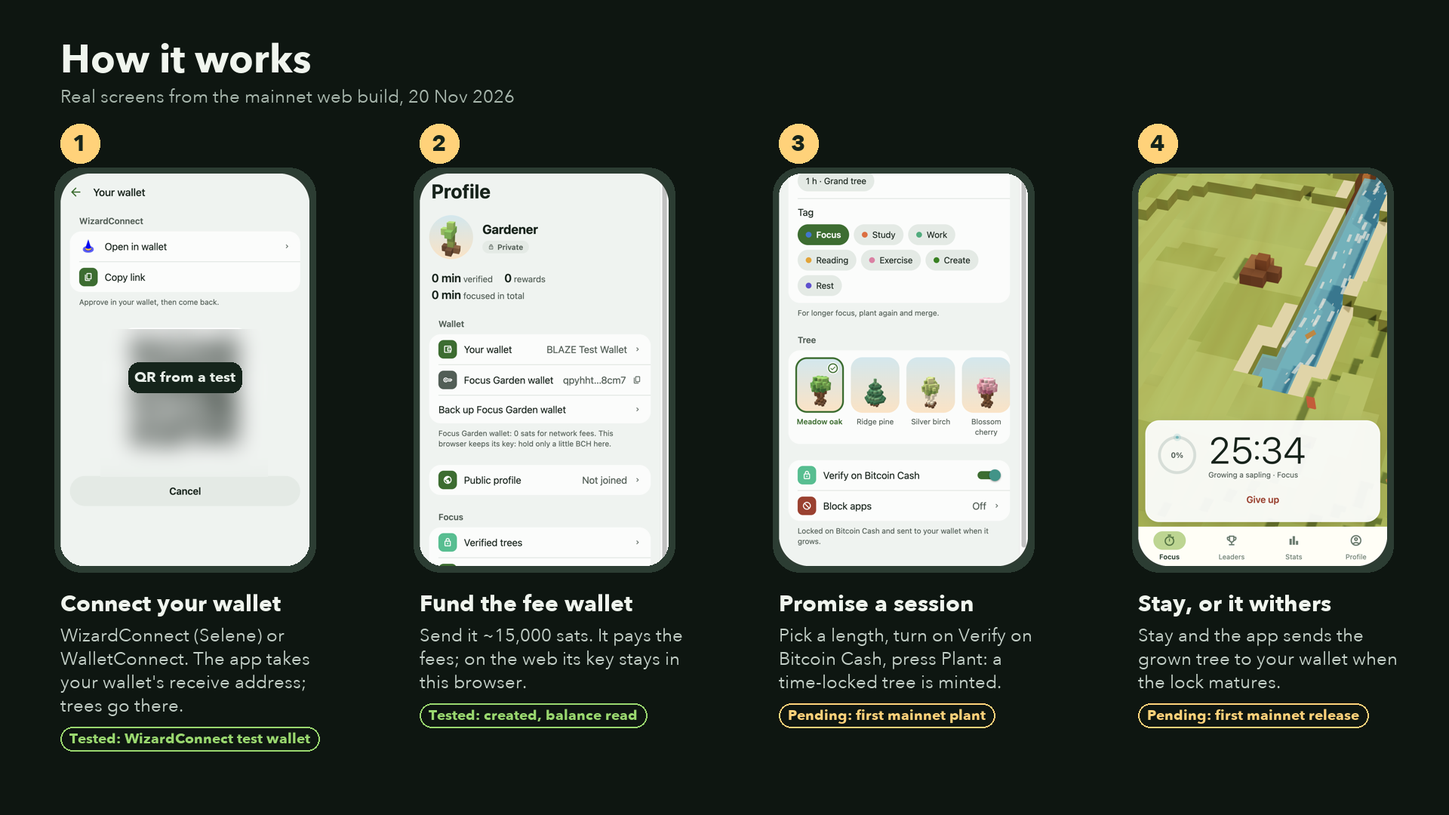
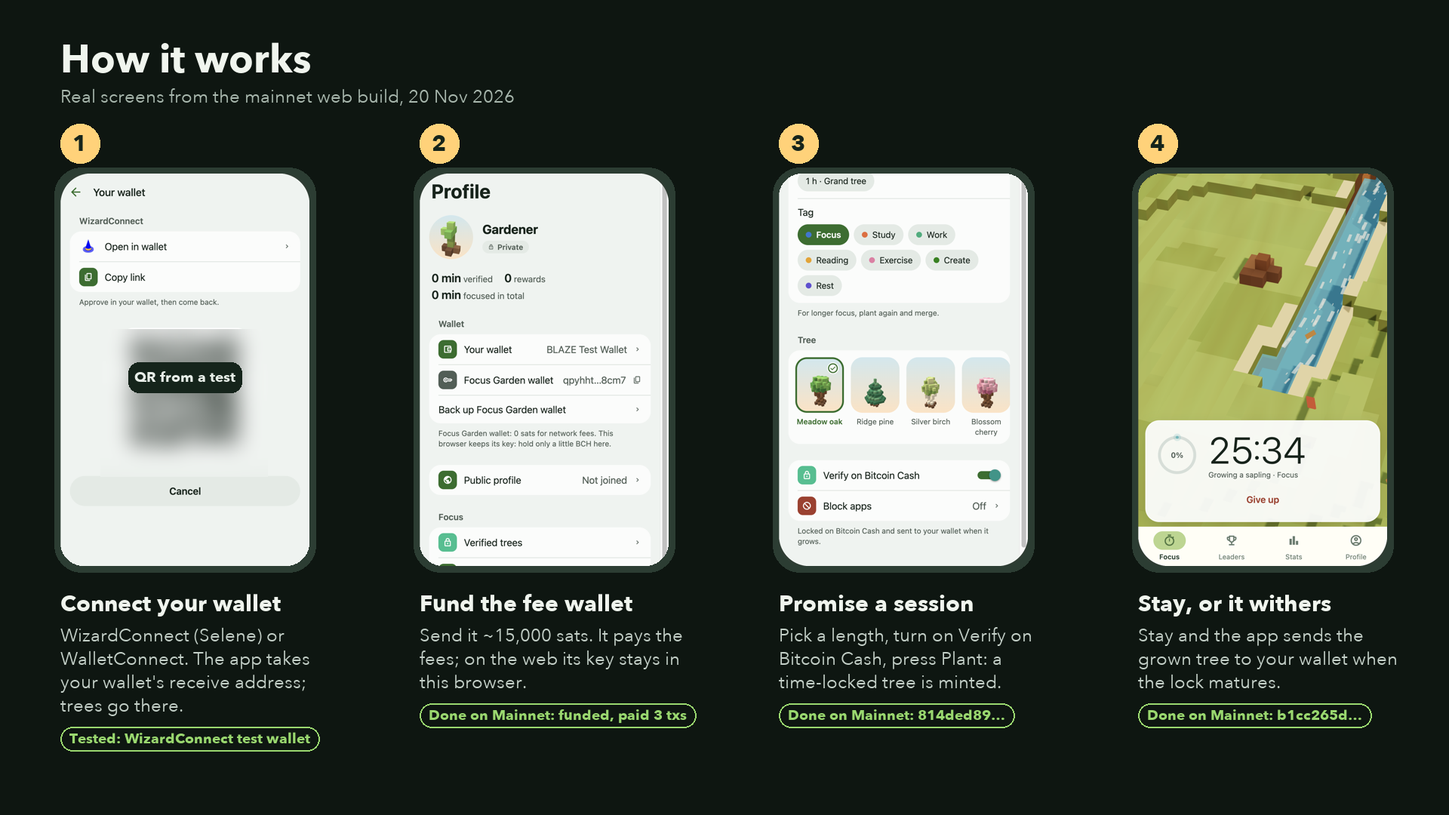
docs/blaze: mainnet judge-path run done (plant, release, profile card)
Plant 814ded89 (block 978132), release b1cc265d (block 978179) and profile card
bc279c21 were made from the live website on 20 Nov with a dedicated test wallet.
Evidence, eligibility, links, BUIDL draft, demo and review notes now cite them;
the walkthrough chips say Done on Mainnet. Source links are pinned to 5f5a52e
(main after PR #4 and #5).

Changed region(s): [[0.2812, 0.8556, 0.4688, 0.8861], [0.7812, 0.8556, 0.9375, 0.8861], [0.5312, 0.8556, 0.6875, 0.8861]]

diff --git a/docs/blaze/BUIDL-DRAFT.md b/docs/blaze/BUIDL-DRAFT.md
@@ -13,7 +13,7 @@ immediately. Saving is treated as the final-submit approval point. Nothing below
 | Name of your Build | Focus Garden | Focus Garden |
 | Brief description | Stay focused. Grow a forest. | Keep your word, grow your forest: focus promises locked on Bitcoin Cash. |
 | Tags | Crypto / Web3, Bitcoin Cash | Crypto / Web3, Bitcoin Cash (add: Productivity, NFT, if offered) |
-| Link 1 (GitHub Repo) | github.com/salemkode/crypto-focus-garden/tree/release/blaze-web-preview | `https://github.com/salemkode/focus-garden-next/tree/<submission commit>` |
+| Link 1 (GitHub Repo) | github.com/salemkode/crypto-focus-garden/tree/release/blaze-web-preview | `https://github.com/salemkode/focus-garden-next/tree/5f5a52ea3c83d9b6df178d53d7eab5c26a32ab56` |
 | Link 2 (Website) | focusgarden.salemkode.com/blaze/ | https://focus-app.salemkode.com |
 | Link 3 (Website) | — | https://focus.salemkode.com/#blaze (judge guide) |
 | Link 4 (Video) | — | `<video link, if recorded>` |
@@ -25,7 +25,7 @@ immediately. Saving is treated as the final-submit approval point. Nothing below
 
 ## Details text, ready to paste
 
-Replace the `<…>` placeholders before pasting.
+All placeholders are filled (20 Nov).
 
 ```
 🔥 BCH BLAZE 2026 · Mainnet track
@@ -33,7 +33,7 @@ Replace the `<…>` placeholders before pasting.
 Try it: https://focus-app.salemkode.com (Bitcoin Cash mainnet, web app in a phone frame; needs a BCH wallet and about 15,000 sats)
 Judge guide (5 minutes): https://focus.salemkode.com/#blaze
 Slides: https://focus.salemkode.com/blaze/focus-garden-blaze-2026.pdf
-Source (2026): https://github.com/salemkode/focus-garden-next/tree/<submission commit>
+Source (2026): https://github.com/salemkode/focus-garden-next/tree/5f5a52ea3c83d9b6df178d53d7eab5c26a32ab56
 EMBER2026 votes: bitcoincash:zzxajy7s8h5qk0tajmr2rmus40ypcs9csvu8j9wgrd
 
 Focus Garden turns a focus session into a promise on Bitcoin Cash. Press Plant and the FocusForest contract mints a tree NFT and time-locks it for the session. The app tracks whether you stay: leave for more than 10 seconds and the tree withers and skips automatic delivery. Stay, and when the lock matures the grown tree is sent to your own wallet as a CashTokens NFT. Longer sessions grow bigger trees, small trees merge into bigger ones, and a second contract, FocusDirectory, gives everyone a public profile card for the on-chain leaderboard and tips. There is no backend of our own: the app builds, checks (in the BCH 2026 VM) and signs every transaction itself and talks to public Electrum servers.
@@ -47,12 +47,12 @@ How to try it (about 15,000 sats):
 
 Why Bitcoin Cash: native CashTokens make each tree a real NFT, covenant time locks (BIP68) make every node enforce the session, and fees are small enough for one tree per session.
 
-Status: both contracts are live on mainnet since 19 Nov 2026 (block 977999), with 100 creator trees and BCMR metadata. The app reads gardens and the leaderboard from mainnet, and WizardConnect pairing is verified on the mainnet build. Plant, merge, claim, profile and tip transactions pass the 76-test contracts suite and 27 protocol tests in the BCH VM. <Add the judge-path mainnet txid here once it is made.> Planned: pUSD-backed promises and group gardens.
+Status: both contracts are live on mainnet since 19 Nov 2026 (block 977999), with 100 creator trees and BCMR metadata. The app reads gardens and the leaderboard from mainnet, and WizardConnect pairing is verified on the mainnet build. Plant, merge, claim, profile and tip transactions pass the 76-test contracts suite and 27 protocol tests in the BCH VM. Made from the website on mainnet, 20 Nov 2026: a plant (814ded899f98264f7fdb58c4ada15b48eb45588414ebc3bc106e828143abd9db), the release of the grown tree to the linked wallet (b1cc265d64ef49728fc5b65e638025a871430b27499c6ccd3367f3bbf866332a) and a profile card (bc279c21a41bf4e8b4170419a3c0c71e7f4a6003f244eb04b504c48240c153f8). Planned: pUSD-backed promises and group gardens.
 
 Pre-existing work: this upgrades our BCH BLAZE 2025 entry, Crypto Focus Garden (3rd place, BitcoinCash Innovation Award): a Next.js web dApp with one Chipnet contract.
 2025 entry: https://dorahacks.io/buidl/36811
 2025 source: https://github.com/salemkode/crypto-focus-garden/tree/de708cd
 2025 demo (organizer showcase): https://www.youtube.com/watch?v=R2xhv0Vq_Us&t=4664s
 Before the 14 Nov kickoff we also had a private Expo prototype (9–10 Nov 2026, reusing the 2025 Chipnet contract) and started the React Native Libauth adapter (13 Nov 2026, https://github.com/salemkode/react-native-libauth). Everything else was built during BLAZE (17–20 Nov 2026 commits): the FocusForest and FocusDirectory contracts and their mainnet deployment, the Expo app for iPhone, Android and the web, on-device transaction building, WizardConnect and WalletConnect linking, the leaderboard, profiles and tips, and BCMR metadata.
-Everything since 2025: https://github.com/salemkode/focus-garden-next/compare/de708cd...<submission commit>
+Everything since 2025: https://github.com/salemkode/focus-garden-next/compare/de708cd...5f5a52e
 ```

diff --git a/docs/blaze/ELIGIBILITY.md b/docs/blaze/ELIGIBILITY.md
@@ -14,7 +14,7 @@ runs 23–27 November, and results are announced on 28 November.
 
 | Track | Verdict | One-line reason |
 |---|---|---|
-| **Mainnet** | **Reachable before the deadline.** Recommended. | The branch is deployed and most requirements are met. Still needed: one funded mainnet run that proves the judge journey, and the BUIDL moved to the Mainnet track. |
+| **Mainnet** | **Eligible.** Recommended. | All requirements the repository can show are met, including a plant → release and a profile card made from the website on mainnet (20 Nov). Still needed: the BUIDL moved to the Mainnet track. |
 | Media | Eligible as an entry type, but not recommended | It would need its own media piece. The existing BUIDL is on the Media track, and its content is out of date. |
 | Community Choice | Eligible automatically once the Mainnet entry is valid | The voting address was confirmed on 20 Nov |
 | Build with XO | Not realistic | No new XO template or invitation exists, and the feedback must be personally written |
@@ -28,8 +28,8 @@ reliable, not adding features. Skip the XO bounties this round.
 
 | Requirement (official wording, shortened) | Status | Evidence / what is left |
 |---|---|---|
-| A feature that sends BCH **mainnet** transactions that anyone, judges included, can make with the app | **Code ready; needs deploy and one funded proof run** | The web app could not send any transaction before today. The browser build refused to store keys, so the fee wallet could not be created. Branch `docs/blaze-2026-submission` (commit `560acb6`) adds a browser fee wallet. On the mainnet web build, wallet creation and the mainnet balance read are verified. A plant with an empty wallet stops cleanly at "needs one coin of at least 8,000 sats". The planting, profile, tip and claim transactions pass the contract and protocol tests in the BCH 2026 VM (tested locally). **No app-made transaction exists on mainnet yet.** The FocusForest contract's history shows only its genesis. |
-| A live, usable website demo judges can click | **Live** | https://focus-app.salemkode.com has run the mainnet build of this branch since 20 Nov: fee wallet, banner, connection-only linking. Earlier the same day it ran `main`, without these. |
[1 lines of base64/hex data omitted]
+| A live, usable website demo judges can click | **Live** | https://focus-app.salemkode.com runs `main` at `5f5a52e` (PR #5 merged 20 Nov): fee wallet, banner, connection-only linking, working confirm dialogs. |
 | Original or significantly improved during the hackathon | **Yes** | The 2025 dApp (one Chipnet contract with a relaxed time check) became a three-platform Expo app with two new mainnet contracts, merging, a leaderboard and BCMR. See `SUBMISSION.md` → "What was built during BLAZE". |
 | Top-of-page banner on the home page: deck link, GitHub source, EMBER2026 CashTokens address. Pre-existing projects also need old and new repo links and a "before" demo link. | **Met (live 20 Nov)** | `packages/mobile/blaze-banner.json` feeds the web app (above the phone frame on desktop and above the app on phones; it can collapse to one line) and the landing page. It holds the deck PDF link (focus.salemkode.com/blaze/…pdf), the 2026 source, the 2025 source, demo and entry, and the confirmed EMBER2026 address. The "before" demo is the organizers' 2025 showcase video. The 2025 dApp is no longer hosted. |
 | **WizardConnect or XO Template integration** | **Met (WizardConnect)** | `packages/mobile/src/features/wallet-link/wizardconnect.ts` uses `@wizardconnect/dapp` 0.2.7. On 20 Nov, on the mainnet web build, a dedicated test wallet built on `@wizardconnect/wallet` 0.2.5 completed the relay pairing. The app received the receive key and linked the address ("Linked to Focus Garden."). Selene is the wallet the UI recommends. The native fee wallet uses the XO engine with XO's stock `p2pkh` template. That is an XO *library* integration, not a custom XO Template, so it is not claimed as one. |

diff --git a/docs/blaze/DECK.md b/docs/blaze/DECK.md
@@ -1,8 +1,9 @@
-# Focus Garden — Widget Factory deck (BCH BLAZE 2026), v2
+# Focus Garden — Widget Factory deck (BCH BLAZE 2026), v3
 
 Deck: https://docs.google.com/presentation/d/16sSdxHkranTg2wpwybkcenF869Gxal0JiMUsRLNKylk/edit
 (a copy of the mandatory template; never edit the original). v1 was built on 20 Nov. v2 applies the
-lead, Sol, Astra and Fable reviews (`reviews/`, summary in `REVIEW.md`).
+lead, Sol, Astra and Fable reviews (`reviews/`, summary in `REVIEW.md`). v3 (20 Nov) replaces
+every "Pending" about the judge path with the mainnet txids; renders in `deck-renders/v3/`.
 
 Template order (kept): cover → one-sentence pitch with link → story → benefits → BCH usage →
 vision → thank you. The walkthrough, evidence and before/after slides sit where the story needs
@@ -50,7 +51,7 @@ Aim for one idea per slide and big type: judges give each entry about two minute
 - **A focus timer with stakes: while you focus, Bitcoin Cash time-locks a tree; stay, and the app
   delivers it to your wallet as a CashTokens NFT. Leave, and it withers.**
 - Large link right below: **Try it → focus-app.salemkode.com** (any modern browser plus a BCH wallet; about 15,000 sats)
-- Status next to the link, not at the bottom: `[Contracts live on Mainnet · first app plant: Pending]`
+- Status next to the link, not at the bottom: `[Done on Mainnet: contracts, and a plant → release from the website]` (v3)
 - Notes: The website is the app's web build in a phone frame. The judge guide is at focus.salemkode.com/#blaze.
 
 ## 3 — Story
@@ -69,8 +70,8 @@ Title: The Story of Focus Garden
 ## 4 — How it works (walkthrough)
 
 - Full-bleed `walkthrough.png` v2: four steps with honest chips (1 Tested: WizardConnect test
-  wallet · 2 Tested: created, balance read · 3 Pending: first mainnet plant · 4 Pending: first
-  mainnet release). The QR code is blurred.
+  wallet · 2 Done on Mainnet: funded, paid 3 txs · 3 Done on Mainnet: 814ded89… · 4 Done on
+  Mainnet: b1cc265d…; v3, 20 Nov). The QR code is blurred.
 - Notes: 1 Connect: WizardConnect shares a receive key branch, and the app uses the first receive
   address; it never asks the wallet to sign. 2 Fund the fee wallet with one coin of ≥8,000 sats
   (≈15,000 covers a plant and a release). 3 Plant with Verify on: the app builds the FocusForest
@@ -82,7 +83,7 @@ Title: The Story of Focus Garden
 
 Title: Benefits of Focus Garden
 - **A reason to stay.** Leave for 10 seconds and your tree withers. `[Tested locally]`
-- **A reward you own.** Kept sessions become CashTokens NFTs in your own wallet, with pictures from our BCMR registry. `[Contracts and metadata: Done on Mainnet · first delivery: Pending]`
+- **A reward you own.** Kept sessions become CashTokens NFTs in your own wallet, with pictures from our BCMR registry. `[Done on Mainnet: contracts, metadata, first delivery]` (v3)
 - **No account, no server we run.** The app talks to Bitcoin Cash through public Electrum servers. `[Done on Mainnet (read-only)]`
 - Notes (moved off the slide): app blocking (Screen Time / usage access) in the native apps, not
   re-verified for this entry; profile cards, a leaderboard of pledged focus, and tips.
@@ -112,7 +113,8 @@ Title: Evidence and honest limits
 | Contracts, 100 creator trees, BCMR metadata | Done on Mainnet — block 977999 |
 | App reads gardens, balances and leaderboard from mainnet | Done on Mainnet (read-only) |
 | WizardConnect pairing | Tested with a dedicated test wallet, 20 Nov |
-| Plant → release from the website | Pending — first mainnet run |
+| Plant → release from the website | Done on Mainnet — 814ded89…d9db → b1cc265d…332a (v3) |
+| Profile card from the website | Done on Mainnet — bc279c21…53f8 (v3) |
 
 - Visible box: **Limits:** the chain checks time, not attention; the app checks that you stay.
   The leaderboard counts pledged time. Delivery waits for the lock to mature (up to about an hour
@@ -131,7 +133,7 @@ Title: The Vision for Focus Garden
 
 Same table as v1, with these changes:
 - Labelled links, no raw URLs: "2025 source", "2025 demo (organizer showcase)", "2026 source".
-- Network row, 2026 column: "Mainnet: contract deployment and reads; first web plant pending".
+- Network row, 2026 column: "Mainnet: contract deployment and reads; plants, releases and profile cards from the website" (v3).
 - Wallets row, 2026 column: "WizardConnect, WalletConnect; XO-engine fee wallet (native)".
 
 ## 10 — Thank you
@@ -144,8 +146,8 @@ Same table as v1, with these changes:
 ## A1 — Mainnet transactions
 
 Short txids (first 8 … last 4), each linked to `https://blockchair.com/bitcoin-cash/transaction/<txid>`.
-Heading: "Deployment (operator) — Done on Mainnet". An empty second heading,
-"Judge path (app) — Pending", gets the plant and release txids later.
+Heading: "Deployment (operator) — Done on Mainnet". Second heading (v3):
+"Judge path (app) — Done on Mainnet, 20 Nov": Plant 814ded89…d9db · Release b1cc265d…332a · Profile card bc279c21…53f8.
 
 ## A2 — Architecture
 

diff --git a/docs/blaze/SUBMISSION.md b/docs/blaze/SUBMISSION.md
@@ -21,7 +21,7 @@ read straight from the chain.
 
 > **🔥 BCH BLAZE 2026 · Mainnet track**
 > Try it: **https://focus-app.salemkode.com** (web, with a five-minute judge guide at https://focus.salemkode.com/#blaze)
-> Slides: https://focus.salemkode.com/blaze/focus-garden-blaze-2026.pdf · Source: https://github.com/salemkode/focus-garden-next (branch `docs/blaze-2026-submission`)
+> Slides: https://focus.salemkode.com/blaze/focus-garden-blaze-2026.pdf · Source: https://github.com/salemkode/focus-garden-next (submitted code: commit `5f5a52e`)
 > EMBER2026 votes: `bitcoincash:zzxajy7s8h5qk0tajmr2rmus40ypcs9csvu8j9wgrd`
 
 **The problem.** Phones win the fight for attention. Focus timers lose because breaking one costs nothing
@@ -52,10 +52,10 @@ small enough to plant one tree per session.
 **Status, honestly.**
 
 - **Done on Mainnet:** both contracts deployed on 19 Nov 2026 (block 977999), 100 creator trees and BCMR metadata.
+- **Done on Mainnet, from the website (20 Nov 2026):** a 9-minute plant (`814ded89…d9db`, block 978132), its release to the linked wallet (`b1cc265d…332a`, block 978179) and a profile card (`bc279c21…53f8`). Full txids are in the evidence table.
 - **Done on Mainnet, read-only:** the web app reads balances, gardens and the leaderboard from mainnet.
-- **Tested on the mainnet web build:** WizardConnect pairing.
+- **Tested on the mainnet web build:** WizardConnect pairing (and the tree above went to that WizardConnect-linked wallet).
 - **Tested locally:** the plant, merge, claim, profile and tip transactions (the contracts suite of 76 tests, which also covers the earlier PomodoroRewards and CreditPolicy contracts, plus 27 protocol tests).
-- **Pending:** a funded judge-path run on mainnet, before the deadline. Its txids will be added here.
 - **Planned:** pUSD-backed promises and group gardens.
 
 **Built on our 2025 entry.** See "Pre-existing work" below for the links and the full timeline.
@@ -92,7 +92,9 @@ All of the 2026 commits in `salemkode/focus-garden-next` after `de708cd` (17–2
 | 7 | Contract rules (tier minimums, time locks, merge, claim authorization, profile cards) | Local VM | 76 tests (`bun run test:contracts`), run 20 Nov | `bun run check` |
 | 8 | On-device building, policy checks, garden reader, leaderboard | Local | 27 protocol tests + 71 app tests, run 20 Nov on the submission branch | `bun run check` |
 | 9 | WizardConnect linking works on the mainnet web build | Mainnet relay (no transaction) | 20 Nov: a dedicated test wallet paired over `relay.riften.net` / `relay.cauldron.quest`; the app linked `bitcoincash:zp0ldgxx7k4j8xh98j588levmlqf5rfmg5v49vs0ws` | Repeat with Selene: Connect wallet → Selene |
-| 10 | The browser fee wallet is created and reads its mainnet balance | Mainnet (read) | 20 Nov, local build of this branch | Profile → Focus Garden wallet |
[1 lines of base64/hex data omitted]
 | 11a | A withered session forfeits its automatic release | Local | `tests/auto-release.test.ts` (one of the 71 app tests) | `bun run test:mobile` |
 | 11 | A plant with an empty fee wallet refuses before signing | Mainnet build | "Your Focus Garden wallet needs one coin of at least 8,000 sats" | Plant with Verify on and no funds |
-| 12 | **A judge-path plant, profile or tip made from the app** | **Mainnet** | **pending** (needs ~15,000 sats; owner approval) | Explorer, plus the tree arriving in the linked wallet |
[3 lines of base64/hex data omitted]

diff --git a/docs/blaze/TODO-BEFORE-SUBMIT.md b/docs/blaze/TODO-BEFORE-SUBMIT.md
@@ -10,18 +10,15 @@ Legend: 🧑 only you can do or decide this · 🤖 I do it once you say yes · 
 
 1. ✅ **EMBER2026 voting address confirmed** (20 Nov): `bitcoincash:zzxajy7s8h5qk0tajmr2rmus40ypcs9csvu8j9wgrd`, shared with Venn. It is in the banner, the deck and the BUIDL draft.
 
-2. 🧑 **Approve and fund one judge-path run on mainnet.** This is the core Mainnet-track proof. No
-   app-made transaction exists on mainnet yet (the FocusForest contract has only its genesis). My
-   rules exclude your existing wallets and funds, so a funding source has to come from you. Two options:
-   - **(a) You run it** (about 15 minutes of attention plus waiting). Follow `DEMO.md` → "Judge
-     instructions" on https://focus-app.salemkode.com with your own wallet and about 15,000 sats, then
-     send me the txids.
-   - **(b) I run it.** Send about 20,000 sats to a dedicated browser fee wallet I create for this. I
-     mint a profile card, plant a 9-minute verified tree, wait for the release (about 1–1.5 h) and
-     record every txid.
-
-   🤖 Either way, I then update the evidence (`SUBMISSION.md` #12), the deck chips ("mainnet
-   pending" → "Done on Mainnet") and the BUIDL text.
+2. ✅ **Judge-path run on mainnet** (20 Nov), funded by you and run from the live site: plant
+   `814ded89…d9db` (block 978132), release of the grown tree to the linked test wallet
+   `b1cc265d…332a` (block 978179), profile card "BLAZE Demo" `bc279c21…53f8`. Full txids are in
+   `SUBMISSION.md` (#12–#14). The evidence, the deck, its PDF and the BUIDL draft are updated.
+   🧑 **Leftover funds:** you sent 975,039 sats, against about 20,000 needed. After the three
+   transactions, the browser fee wallet `bitcoincash:qqlyrhns0m75u00c2sec326f77gh75k3fgmpj3wacx`
+   holds about 967,000 sats. Its key lives only in the Ardia browser's storage for
+   focus-app.salemkode.com. Tell me where to send it back. I'll sweep it with a single transaction
+   to the address you name.
 
 3. ✅ **Deck link** (20 Nov): as you asked, the Google deck stays private. Its PDF export is hosted on your Cloudflare site at https://focus.salemkode.com/blaze/focus-garden-blaze-2026.pdf and linked from both banners. If the deck changes, ask Codex to export it again, then redeploy the landing page.
 
@@ -46,11 +43,9 @@ Legend: 🧑 only you can do or decide this · 🤖 I do it once you say yes · 
    nothing can change that now. Posting the project in the group also helps "word of mouth", which
    the rules name as the way out of that queue.
 
-6. 🧑 **Keep the deployed build until judging ends (27 Nov).** focus-app.salemkode.com and
-   focus.salemkode.com now run branch `docs/blaze-2026-submission`. A deploy from `main` drops the
-   fee wallet and banner until PR #5 is merged. Two ways to avoid it:
-   - merge https://github.com/salemkode/focus-garden-next/pull/5 (I won't merge it), or
-   - tell other threads not to redeploy the web app or landing page from `main`.
+6. ✅ **PRs merged and deployed** (20 Nov): PR #4 and PR #5 are merged into `main` (`5f5a52e`),
+   and both sites were redeployed from `main`. Until judging ends (27 Nov), avoid redeploying from
+   an older branch.
 
 7. 🧑 **The old Media "interactive piece"** at focusgarden.salemkode.com/blaze (and its pitch.pdf)
    still says "test network" and "garden service". Option: 🤖 I point it to
@@ -82,7 +77,7 @@ Legend: 🧑 only you can do or decide this · 🤖 I do it once you say yes · 
 
 - Rules re-verified on 20 Nov from DoraHacks and bchblaze.com (`ELIGIBILITY.md`, `sources/`)
 - Web fee wallet; connection-only wallet linking; withered sessions keep their tree locked. All are
-  committed, pushed, deployed, and in PR #5.
+  committed, merged into `main` (PR #5) and deployed.
 - The BLAZE banner is live on the web app and landing page. The deck link appears after step 3.
 - The judge guide is live at https://focus.salemkode.com/#blaze
 - WizardConnect pairing was verified on the mainnet web build with a dedicated test wallet.

diff --git a/docs/blaze/DEMO.md b/docs/blaze/DEMO.md
@@ -11,9 +11,24 @@ Supporting pages:
 - iPhone (AppDrop): https://appdrop.app/d/prvhsh4gyx
 - Android APK (AppDrop): https://appdrop.app/d/njfetdhs4s
 
-> Deploy state: since 20 Nov both sites run branch `docs/blaze-2026-submission` (PR #5): the
-> browser fee wallet, the collapsible banner, connection-only linking, and withered sessions
-> keeping their tree locked. A redeploy from `main` before PR #5 merges would remove these.
+> Deploy state: both sites run `main` at `5f5a52e` (PR #4 and PR #5 merged and deployed on 20 Nov):
+> the browser fee wallet, the collapsible banner, connection-only linking, working confirm dialogs,
+> and withered sessions keeping their tree locked.
+
+## Verified run on mainnet (20 Nov 2026)
+
+These steps were run on the live site with a dedicated test wallet linked over WizardConnect and a
+browser fee wallet:
+
+| Step | Transaction | Result |
+|---|---|---|
[4 lines of base64/hex data omitted]
+
+Lesson from the run: a browser confirm dialog left open pauses the page's scripts, including the
+automatic release. Answer dialogs promptly and keep the tab in front.
 
 ## Judge instructions (short)
 
@@ -54,7 +69,7 @@ What it costs:
 | 0:15 | focus-app.salemkode.com, banner visible | "This is the live web app on BCH mainnet. The banner links our slides, source and the 2025 version we started from." |
 | 0:25 | Connect wallet → Selene / WizardConnect QR | "I connect my wallet with WizardConnect. Focus Garden takes my receive address and never asks the wallet to sign. That's where my trees go." |
 | 0:40 | Profile → Focus Garden wallet, copy address, pay from wallet | "A small Focus Garden wallet pays the fees. I send it a few cents of BCH." |
-| 0:55 | Next session: 9 min, Verify on Bitcoin Cash, Plant | "I promise nine minutes and press Plant. The app builds the transaction, checks it in the BCH virtual machine, signs it and broadcasts it. The FocusForest contract mints my tree and locks it for exactly this session." |
+| 0:55 | Next session: 9 min, Verify on Bitcoin Cash, Plant | "I promise nine minutes and press Plant. The app builds the transaction, checks it in the BCH virtual machine, signs it and broadcasts it. The FocusForest contract mints my tree and locks it for the session." |
 | 1:15 | Timer running; the txid shown on a second device (keep the app tab in front) | "Here's the transaction on mainnet: a tree NFT held by the contract. Nobody can move it early, not even us." |
 | 1:30 | Recorded separately: a practice session (Verify off) left for 10 s → withered | "If I leave, my tree withers. That's the deal." |
 | 1:45 | Valley with grown trees; Leaders tab | "Stay, and the tree grows. Three small trees merge into a bigger one, and the leaderboard is read straight from the chain." |

diff --git a/docs/blaze/REVIEW.md b/docs/blaze/REVIEW.md
@@ -33,7 +33,7 @@ because only GPT models have the Google Drive connector.
 
 | # | Finding (who) | Severity | Action |
 |---|---|---|---|
-| 1 | No app-made mainnet transaction; the judge path is unproven (all) | Blocker | **Owner approval and funds needed** (`TODO-BEFORE-SUBMIT.md` step 2). Labelled **Pending** everywhere. |
+| 1 | No app-made mainnet transaction; the judge path is unproven (all) | Blocker | **Fixed 20 Nov:** plant `814ded89…d9db`, release `b1cc265d…332a` and profile card `bc279c21…53f8` made from the website on mainnet; labels changed to **Done on Mainnet**. |
 | 2 | No deck link in the banner; voting address unconfirmed (all) | Blocker | The banner and deck are ready. **Owner approval** needed to share the deck and confirm the address (steps 1, 3). |
 | 3 | BUIDL on Media with stale text (all) | Blocker | `BUIDL-DRAFT.md` updated. **Owner approval** needed to save and switch the track (step 4). |
 | 4 | The pitch overstates what the chain proves: "exactly", "unforgeable proof", "garden shows the focus she kept" (Sol, Astra, Fable) | Major | Rewritten as "the app tracks whether you stay, Bitcoin Cash time-locks the tree, finish and the app delivers it" in deck v2, the BUIDL draft, the submission text and the landing page. "Proof" and "no servers" were removed from the landing page. |
@@ -48,7 +48,7 @@ because only GPT models have the Google Drive connector.
 | 13 | WizardConnect was tested only with a test wallet, not real Selene or Paytaca (Fable, Sol) | Major | Wording made exact everywhere. Real Selene and Paytaca are part of the funded run (owner). |
 | 14 | Pre-kickoff work (9–10 Nov prototype, 13 Nov adapter) belongs on a slide (Astra) | Major | Deck v2 A3 and `SUBMISSION.md`. **Open:** Fable asks when the PomodoroRewards "v3" and CreditPolicy were written. Git can't tell, because all 2026 code first landed on 17 Nov. **The owner should confirm.** |
 | 15 | One minting baton serializes every plant (Fable) | Major | Not changed. Listed as a known limit; the plan is several batons. Deck v2 dropped the "million promises" target. |
-| 16 | The live sites run unmerged PR #5 (Fable, Sol) | Major | **Owner decision:** merge PR #5, or freeze deploys from `main` (step 6). |
+| 16 | The live sites run unmerged PR #5 (Fable, Sol) | Major | **Fixed 20 Nov:** PR #5 (and #4) merged; both sites deployed from `main`. |
 | 17 | The vision is too broad (Sol, Astra) | Minor | Deck v2: one first buyer (study groups) and one success measure, marked Planned. |
 | 18 | Test counts were inconsistent; the 76-test suite includes legacy contracts (Sol, Fable) | Minor | Fixed to "76-test contracts suite (also covers PomodoroRewards/CreditPolicy), 27 protocol, 71 app". |
 | 19 | The collapsed banner omits the 2025 demo; the landing page's 2025 link isn't pinned (Fable) | Minor | Both fixed and deployed. |

diff --git a/docs/blaze/LINKS.md b/docs/blaze/LINKS.md
@@ -7,13 +7,13 @@
 | **BUIDL** | https://dorahacks.io/buidl/51334 | Exists. Linked to BCH BLAZE 2026 on the **Media** track; switch to Mainnet. Its text points to old links. The replacement text is in `SUBMISSION.md`. |
 | 2025 BUIDL (before) | https://dorahacks.io/buidl/36811 | Public. 3rd place, BitcoinCash Innovation Award, BLAZE 2025 |
 | Duplicate 2025 BUIDL | https://dorahacks.io/buidl/36810 | Public, the same content as 36811 (2025). Leave it alone; mention it only if asked. |
-| **Demo (after)** | https://focus-app.salemkode.com | Live on mainnet from `main`. Redeploy from this branch for the fee wallet and banner. |
-| Judge guide | https://focus.salemkode.com/#blaze | The section exists on this branch. Deploy the landing page to publish it. |
+| **Demo (after)** | https://focus-app.salemkode.com | Live on mainnet, deployed from `main` at `5f5a52e` (20 Nov, after PR #4 and PR #5 were merged). |
+| Judge guide | https://focus.salemkode.com/#blaze | Live, deployed from `main` (20 Nov). |
 | **Demo (before)** | https://www.youtube.com/watch?v=R2xhv0Vq_Us&t=4664s | BLAZE 2025 organizer showcase of Crypto Focus Garden. The 2025 dApp itself is no longer hosted. |
-| **Source (after)** | https://github.com/salemkode/focus-garden-next/tree/docs/blaze-2026-submission | Public repo. The branch is pushed when the PR is opened. Use a commit link (`/tree/<sha>`) in the BUIDL so it never moves. |
-| Source (after, main) | https://github.com/salemkode/focus-garden-next | Public, default branch `main` (b6c5533) |
+| **Source (after)** | https://github.com/salemkode/focus-garden-next/tree/5f5a52ea3c83d9b6df178d53d7eab5c26a32ab56 | Public. The submitted code, pinned: `main` after PR #4 and PR #5 were merged. Use this link in the BUIDL so it never moves. |
+| Source (after, main) | https://github.com/salemkode/focus-garden-next | Public, default branch `main` |
 | **Source (before)** | https://github.com/salemkode/crypto-focus-garden/tree/de708cd | Public, the last 2025 commit |
-| Source diff | https://github.com/salemkode/focus-garden-next/compare/de708cd...docs/blaze-2026-submission | Everything built since 2025 |
+| Source diff | https://github.com/salemkode/focus-garden-next/compare/de708cd...5f5a52e | Everything built since 2025 |
 | Libauth adapter (pre-existing from 13 Nov 2026) | https://github.com/salemkode/react-native-libauth | Public |
 | Mainnet deployment record | https://github.com/salemkode/focus-garden-next/blob/main/packages/contracts/deployments/mainnet.json | Public |
 | BCMR registry | https://focus.salemkode.com/.well-known/bitcoin-cash-metadata-registry.json | Live |
